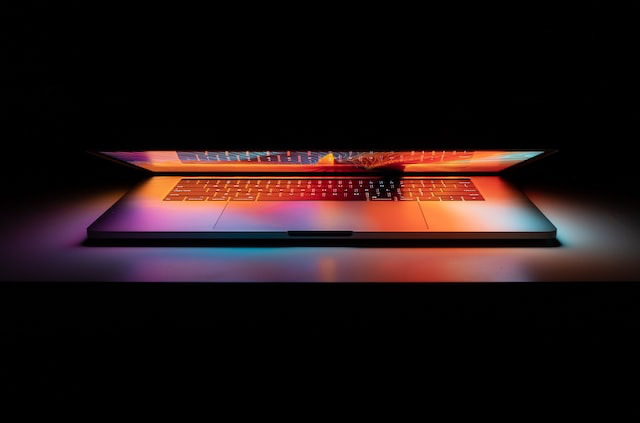
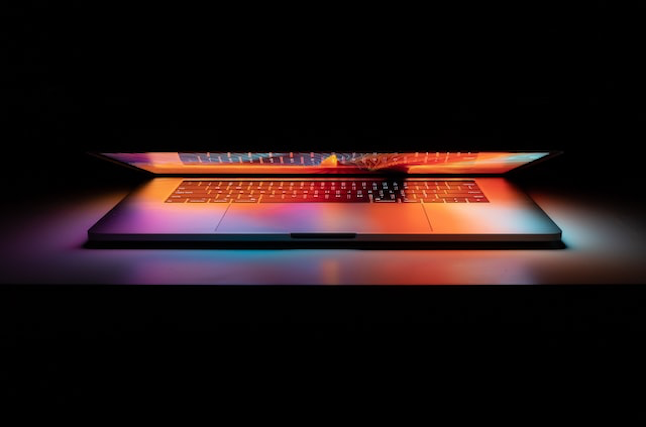
mexican foto added

Changed region(s): [[0.2812, 0.3995, 0.5312, 0.4303], [0.625, 0.3995, 0.75, 0.4303], [0.5312, 0.4303, 0.625, 0.461]]

diff --git a/src/components/Portfolio.js b/src/components/Portfolio.js
@@ -2,6 +2,7 @@ import React from 'react'
 import Pool from '../assets/pool.png'
 import Comp from '../assets/comp.png'
 import Camera from '../assets/camera.png'
+import Mex from '../assets/mex.png'
 
 const Portfolio = () => {
 
@@ -26,7 +27,7 @@ const Portfolio = () => {
     }, 
     {
       id: 4,
-      src: Camera,
+      src: Mex,
       href: '',
       text: 'Coming soon',
     }
@@ -67,7 +68,7 @@ const Portfolio = () => {
                       rel='noreferrer'>
 
                       <img src={src} alt='' width={220} height={220} className='rounded-md 
-                      duration-300 hover:scale-110 cursor-pointer shadow-md shadow-gray-500
+                      duration-300 hover:scale-110 cursor-pointer shadow-md shadow-white
                         '/>
 
                       <div

diff --git a/src/components/Home.jsx b/src/components/Home.jsx
@@ -26,7 +26,7 @@ const Home = () => {
                         py-3 my-2 flex items-center rounded-md bg-gradient-to-r
                         cursor-pointer border-4 hover:scale-125 duration-500 
                         border-orange-400'>
-                        Experiences
+                        More about me
                         </button> 
                     </a>
                 </div>

diff --git a/src/components/About.js b/src/components/About.js
@@ -13,7 +13,7 @@ const About = () => {
                 border-gray-500'>About</p>
             </div> 
 
-                <p className='xs:text-lg text-2xl mt-8'>
+                <p className='xs:text-lg mt-8'>
                     Simple. User-friendly. Navigable. That's how I believe digital products should be.
                     </p>
                 <br />
